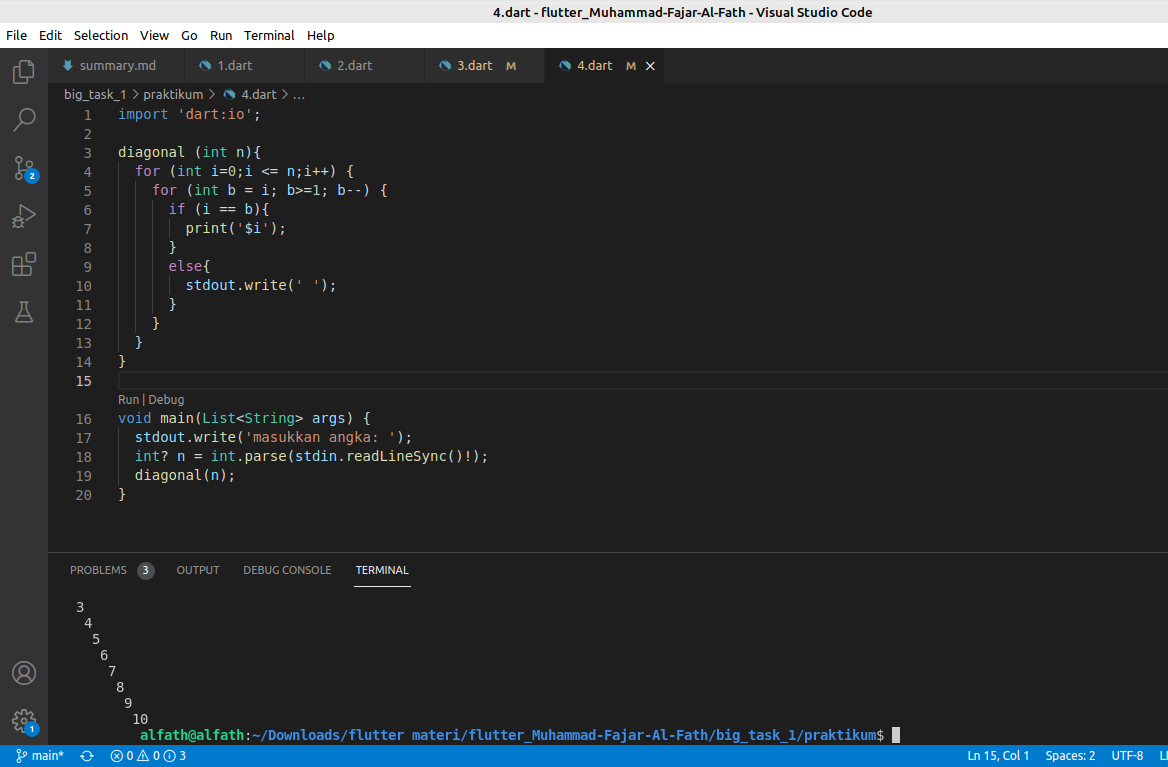
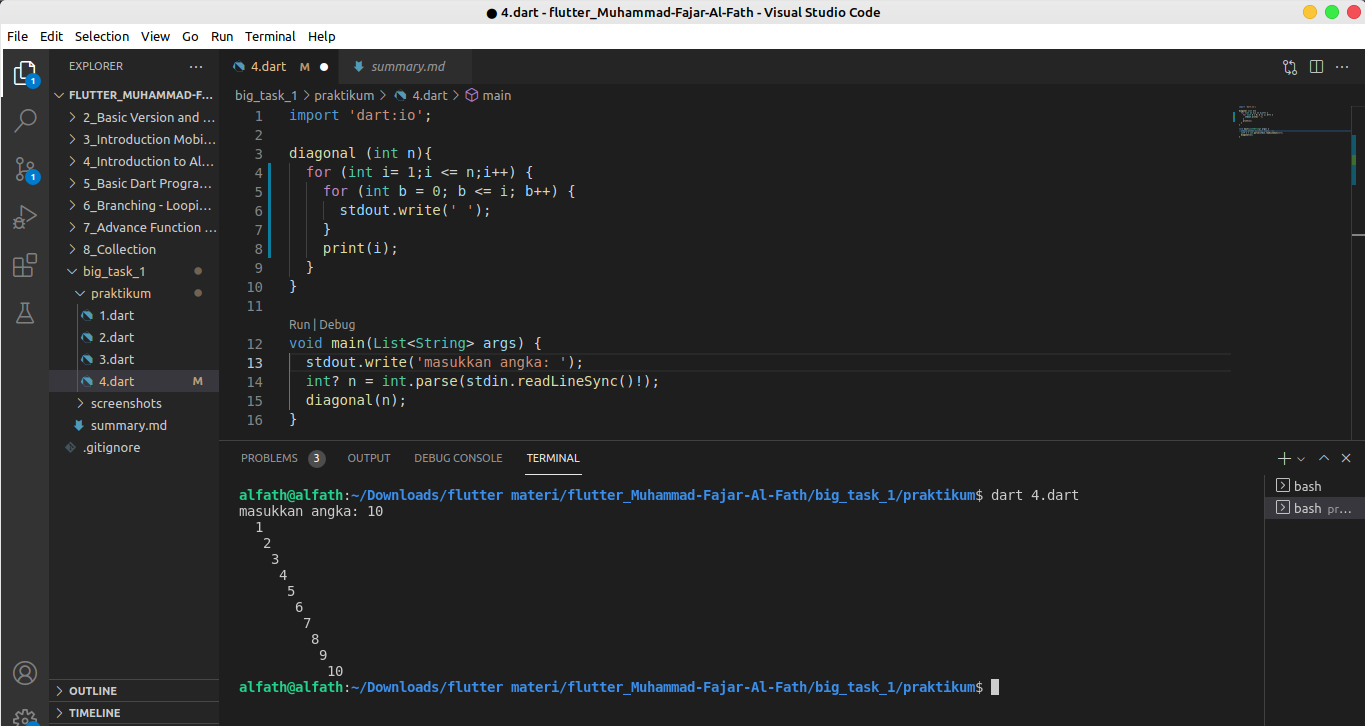
revisi soal 4 big_task_1

diff --git a/big_task_1/praktikum/4.dart b/big_task_1/praktikum/4.dart
@@ -1,15 +1,11 @@
 import 'dart:io';
 
 diagonal (int n){
-  for (int i=0;i <= n;i++) {
-    for (int b = 0; b>=1; b--) {
-      if (i == b){
-        stdout.writeln('$i');
-      }
-      else{
-        stdout.write(' ');
-      }
+  for (int i= 1;i <= n;i++) {
+    for (int b = 0; b <= i; b++) {
+      stdout.write(' ');
     }
+    print(i);
   }
 }
 
